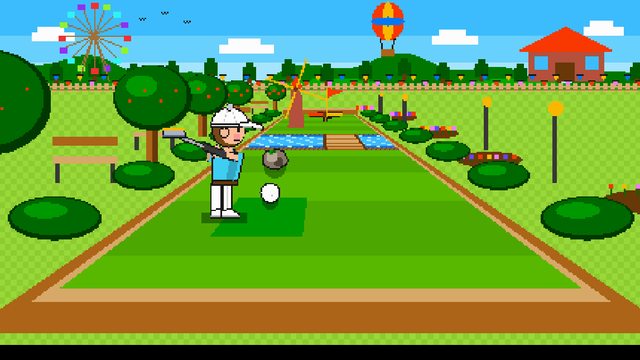
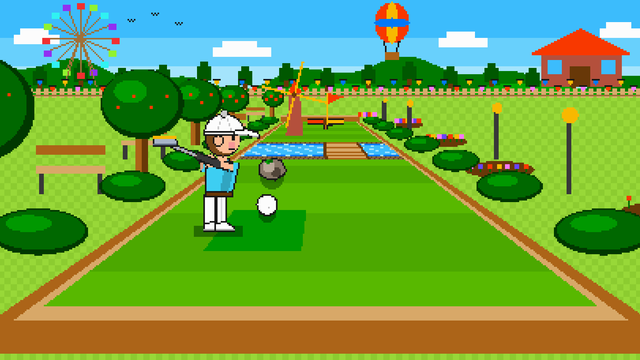
Mini Golf tile without the black strip; bottom rows of every tile checked (closes #304) (#329)
* Mini Golf tile: cut the black strip at the bottom, check the bottom rows of every tile (#304)

Claude-Session: https://claude.ai/code/session_018NHRQps64ZpMCPdhZfYtqf

* gdlint: wrap a long line (#304)

Claude-Session: https://claude.ai/code/session_018NHRQps64ZpMCPdhZfYtqf

---------

diff --git a/docs/GAME_REQUIREMENTS.md b/docs/GAME_REQUIREMENTS.md
@@ -114,7 +114,7 @@ The 8-bit arcade style (FD-18) changed REQ-GM-45 and 46 (the shell) in phase 1. 
   - REQ-GM-47o: Languages (FD-19, REQ-FL-54, 63). Every text the shell draws goes through `Lang` (`Shell.title`, `text`, `hint`, `countdown`, the menus and the result list), and a game builds a text with a name or a number with `Lang.f()` from a format string, never by joining pieces. In Hebrew (right to left) the HUD is mirrored by the shell: the title is at the top right, the leader chip is at the left margin, the timer box is at the right. The timer box has **one place in every game** that has one (`Shell.TIMER_X`, `Shell.TIMER_Y`): its left edge is at x 520 and its top at y 36 on a 1920 wide screen in English, and its right edge is at x 1400 (1920 - 520) in Hebrew (`Shell.mx`). Car Race has no place of its own (it was at x 640). The title is left of it and the leader chip is right of it, so they never overlap, a chip is laid out left to right in both languages (the color square, the avatar, the name, the score) and a game puts its own HUD text with `Shell.mx()`. The game world is never mirrored: a maze, a track or an arena is the same in both languages. A game with a new text adds a row (key, English, Hebrew) to `assets/lang/strings.csv` and uses the key in the code; `tests/smoke_lang.gd` fails when a literal text is not a key or has no Hebrew text.
 - REQ-GM-48: Tier 3, free. Setting, background, camera, lighting mood and theme colors are the choice of the game. The background colors come from the arcade set (black `#000000`, blue `#1b3a8a`, teal `#0f6a78`, plum `#7a1f4a`, green `#145a3a`, amber `#8a4a00`), or from a set that the game's requirements file lists, and they follow REQ-GM-47e (REQ-GM-47m in a pixel world). A pixel world may also use a black background with star pixels.
 - REQ-GM-48a: Meaning colors in a world (issue #232). A world may use any colors (REQ-GM-48), but a color that is equal or near (CIE76 delta E under 12) to a player color (`Protocol.PLAYER_COLORS`), to OK green or to BAD red must come from `scripts/game/palette.gd` (`Palette.NES_RED` for fire and balloons, `Palette.SLOTS` for party lights and confetti), so that a player does not take a decoration for a message or for another player. A new `Color("rrggbb")` literal like that in `scripts/` fails `tests/palette_lint.gd`. The 15 world colors that were near a meaning color are named in `Palette` with their old values (issue #257), so the baseline `tests/palette_baseline.txt` is empty and stays empty. Status: Done. A world that wants a color further from a player color, OK or BAD changes the named constant (a look change that needs a render check).
-- REQ-GM-49: Check for a new game: put a screenshot of the game next to the Games screen. They must look like the same toy box. The reviewer (the `review` skill) does this check. Hints at the bottom of the screen sit on a dark plate (`Shell.hint`), so a wall or a track behind them does not hide the text. The tile of a game shows only the world of the game, with no HUD, title bar, leader chip, score, time, hint or menu text. `tools/make_tiles.gd` sets `tile_mode` on the game (the game draws no HUD) and cuts the HUD strip (112 px at 1080p) from the picture, so there is no black bar either; `pixel_render` checks the top rows of every tile.
+- REQ-GM-49: Check for a new game: put a screenshot of the game next to the Games screen. They must look like the same toy box. The reviewer (the `review` skill) does this check. Hints at the bottom of the screen sit on a dark plate (`Shell.hint`), so a wall or a track behind them does not hide the text. The tile of a game shows only the world of the game, with no HUD, title bar, leader chip, score, time, hint or menu text. `tools/make_tiles.gd` sets `tile_mode` on the game (the game draws no HUD) and cuts the HUD strip (112 px at 1080p) from the picture, so there is no black bar either; `pixel_render` checks the top rows of every tile and, except for the worlds with a black floor by design (Air Hockey, Paint Grab, Sheep Herding), the bottom rows too (issue #304). Mini Golf is cut above the end of its course (`MINI_GOLF_BOTTOM` in `make_tiles.gd`), like Pin Pals above its score sheet.
 
 Scores and solo play
 

diff --git a/docs/AUTOMATED_TESTS.md b/docs/AUTOMATED_TESTS.md
@@ -202,6 +202,7 @@ Neither system has an Android job (the Actions job `build-android` exported noth
 | A-12-7 | Test 12 item 7: the Star Shield tile | `tiles`: "asteroid_blast: the night sky is most of the picture", "asteroid_blast: at least 3 asteroids and the biggest is 3 times the area of the smallest", "asteroid_blast: a beam of the weapon color", "asteroid_blast: 4 of the 4 player colors show" |
 | A-12-8 | Test 12 item 8 (the colors): the Pin Pals tile | `tiles`: "bowling: the lane and N white blobs (10 pins and more)" (weak: 138 blobs are found), "bowling: 2 of the 4 player colors show". The triangle of pins and the ball are not asserted: item 8 |
 | A-12-9 | Test 12 item 9 (the colors): the Tennis tile | `tiles`: "tennis: the grass, the court and the yellow ball", "tennis: 3 of the 4 player colors show". The height of the ball is not asserted: item 9 |
+| A-304-1 | Issue #304 (REQ-GM-49, no device step; the look next to the Games screen stays in Test 12) | `pixel_render`: "tile <id>: the bottom rows show the world, not a black strip" for every tile except Air Hockey, Paint Grab and Sheep Herding (it failed on the old Mini Golf tile: 1280 of 1280 pixels black) |
 | A-12-10 | Test 12 item 10 (the colors): the Mini Golf tile | `tiles`: "mini_golf: the fairway, the lake and the wood of the windmill", "mini_golf: 1 of the 4 player colors show" (the golfer on its turn; the chips are not in the tile). The ball between the tee and the hole is not asserted: item 10 |
 | A-14-3 | Test 14 items 3a to 3c, the blob feel (direction, stop, edges) | `auto_paint`: "a tilt to the right rolls the blob to the right (x > 0)", "...to the left...", "the top of the phone up rolls the blob down the screen (y > 0)" and the 4th direction (all through the sensor fusion); "full tilt for 1.5 s gives a high speed", "the blob still rolls 0.5 s and 2 s after the tilt stops", the speed is under 20 px/s at 3.5 s and 4 s; "in 10 s of full tilt at all 4 edges the whole blob stayed inside the floor" and the blob bounced at right, left, up and down. The real sensor axes stay in Test 3 |
 | A-14-4 | Test 14 item 4b, the logic of taking a tile (4c: A-14-4a, 4c) | `auto_paint`: "painting a free tile buzzes nobody", "taking the tile of another player buzzes the player that took it for 20 ms" |
